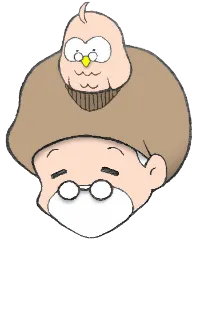
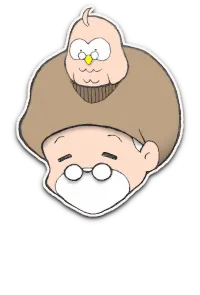
ちいかわまで白枠化

Changed region(s): [[0.03, 0.0, 0.96, 0.7627], [0.36, 0.3966, 0.39, 0.4271]]

diff --git a/index.html b/index.html
@@ -188,7 +188,7 @@
         らしいが、それ以上に日本のオタク文化に沼りすぎて生活もままならない<b>社会不適合者</b>。
     </p>
 
-    <p class="出現 改行3 ▼">
+    <p class="出現 改行4 ▼">
         だが、その不適合ぶりを全力で<b>自愛</b>する姿は、人生を深刻にとらえて悩めるリスナーたちに安らぎをもたらしているとかいないとか。
     </p>
 
@@ -207,13 +207,13 @@
         生活能力のないドクターを拾って彼女の番組にぶっこんだ結果、運よく人気番組となった。
     </p>
 
-    <p class="出現 改行10 ▼">
+    <p class="出現 改行20 ▼">
         <b>尊大なしゃべり</b>と<b>舌足らず</b>のミスマッチは、大きなお友達の支持を集めているとかいないとか。
     </p>
 
     <!-- 🔹流星 -->
 
-    <div class="画像 改行5">
+    <div class="画像 改行10">
         <img src="img/ryusei.webp" class="流星大 ▼">
     </div>
 
@@ -292,7 +292,7 @@
         </div>
 
         <div class="🥸">
-            <div class="キャラ画像 縦伸縮" style="--サイズ: 2%; --被り幅: 20px;">
+            <div class="キャラ画像 縦伸縮" style="--サイズ: 3%; --被り幅: 20px;">
                 <img src="cha/dt_precure.webp">
                 <img src="cha/dt_precure_hosi.webp" class="差分 星回転">
             </div>
@@ -306,7 +306,7 @@
         </div>
 
         <div class="🐰" style="--間隔: 20px;">
-            <div class="キャラ画像 震え" style="--サイズ: -2%;">
+            <div class="キャラ画像 震え" style="--サイズ: -3%;">
                 <img src="cha/uf_sizukana-ikari.webp">
                 <img src="cha/uf_sizukana-ikari_kekkan.webp" class="差分 高速伸縮">
             </div>
@@ -316,7 +316,7 @@
         </div>
 
         <div class="🥸" style="--間隔: -20px;">
-            <div class="キャラ画像 横揺れ小" style="--サイズ: -2%;">
+            <div class="キャラ画像 横揺れ小" style="--サイズ: -3%;">
                 <img src="cha/df_chiikawa.webp">
                 <img src="cha/df_chiikawa_chiikawa.webp" class="差分 ちいかわ">
             </div>

diff --git a/main.css b/main.css
@@ -38,14 +38,14 @@
 :where(.🐰) {
 	--配置: flex-start; --出現方向: -1;   --キャラ反転: 1;
 	--左余白:   calc(12% + var(--画像サイズ, 4) * 1%);    --右余白:   0;
-	--しっぽ左: calc(74px + var(--画像サイズ, 4) * 4px);  --しっぽ右: auto;
+	--しっぽ左: calc(64px + var(--画像サイズ, 4) * 4px);  --しっぽ右: auto;
 	--起点: top left;	--しっぽ形: 0 3px 6px 0;
     --色: rgba(255, 105, 180, 0.5); /* hotpink #ff69b4 */
 }
 :where(.🥸) {
 	--配置: flex-end;	--出現方向: 1;    --キャラ反転: 1;
 	--左余白:   0;		--右余白:   calc(10% + var(--画像サイズ, 4) * 1%);
-	--しっぽ左: auto;	--しっぽ右: calc(74px + var(--画像サイズ, 4) * 4px);
+	--しっぽ左: auto;	--しっぽ右: calc(64px + var(--画像サイズ, 4) * 4px);
 	--起点: top right;  --しっぽ形: 0 0 6px 3px;
     --色: rgba(210, 180, 140, 0.5); /* tan #d2b48c */
 }
@@ -55,13 +55,13 @@
 .左側 {
 	--配置: flex-start; --出現方向: -1;   --キャラ反転: -1;
 	--左余白:   calc(12% + var(--画像サイズ, 4) * 1%);    --右余白:   0;
-	--しっぽ左: calc(74px + var(--画像サイズ, 4) * 4px);  --しっぽ右: auto;
+	--しっぽ左: calc(64px + var(--画像サイズ, 4) * 4px);  --しっぽ右: auto;
 	--起点: top left;	--しっぽ形: 0 3px 6px 0;
 }
 .右側 {
 	--配置: flex-end;	--出現方向: 1;    --キャラ反転: -1;
 	--左余白:   0;		--右余白:   calc(10% + var(--画像サイズ, 4) * 1%);
-	--しっぽ左: auto;	--しっぽ右: calc(74px + var(--画像サイズ, 4) * 4px);
+	--しっぽ左: auto;	--しっぽ右: calc(64px + var(--画像サイズ, 4) * 4px);
 	--起点: top right;  --しっぽ形: 0 0 6px 3px;
 }
 
